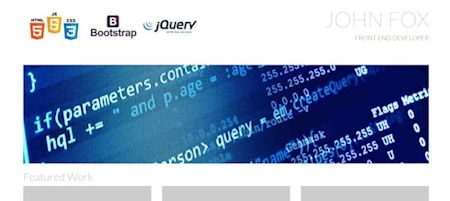
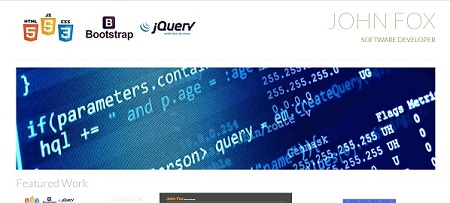
Updated projects

diff --git a/js/resumeBuilder.js b/js/resumeBuilder.js
@@ -1,15 +1,15 @@
 var bio = {
     "name": "John Fox",
-    "role": "Web Developer",
+    "role": "Software Developer",
     "biopic": "images/two.jpg",
     "contacts": {
         "mobile": "N/A",
-        "email": "foxclimb@aol.com",
+        "email": "john.fox@workmail.com",
         "github": "github.com/johnf24",
         "location": "Atlanta"
     },
     "welcomeMessage": "Welcome To My Resume",
-    "skills": ["HTML5", "CSS3", "JavaScript", "Bootstrap", "JQuery"]
+    "skills": ["HTML5", "CSS3", "JavaScript", "Bootstrap", "JQuery", "TypeScript", "Angular", "Python"]
 };
 
 var education = {
@@ -35,7 +35,7 @@ var work = {
     "jobs": [{
         "employer": "Independent Contractor",
         "location": "Atlanta, GA",
-        "title": "Front End Developer",
+        "title": "Web Developer",
         "dates": "January 2017 - June 2017",
         "description": "Collaborated with a development team and contributed to an interactive web app using Node.js, Angular, Typescript and Sass."
     }]
@@ -77,6 +77,12 @@ var projects = {
             "dates": "2016",
             "description": "Completed a test suite for a web-based application.",
             "images": ["images/eight.jpg"]
+        },
+        {
+            "title": "Item Catalog",
+            "dates": "2017",
+            "description": "A dynamic application that provides a list of items with user registration and authentication.",
+            "images": ["images/nine.jpg"]
         }
     ]
 };
